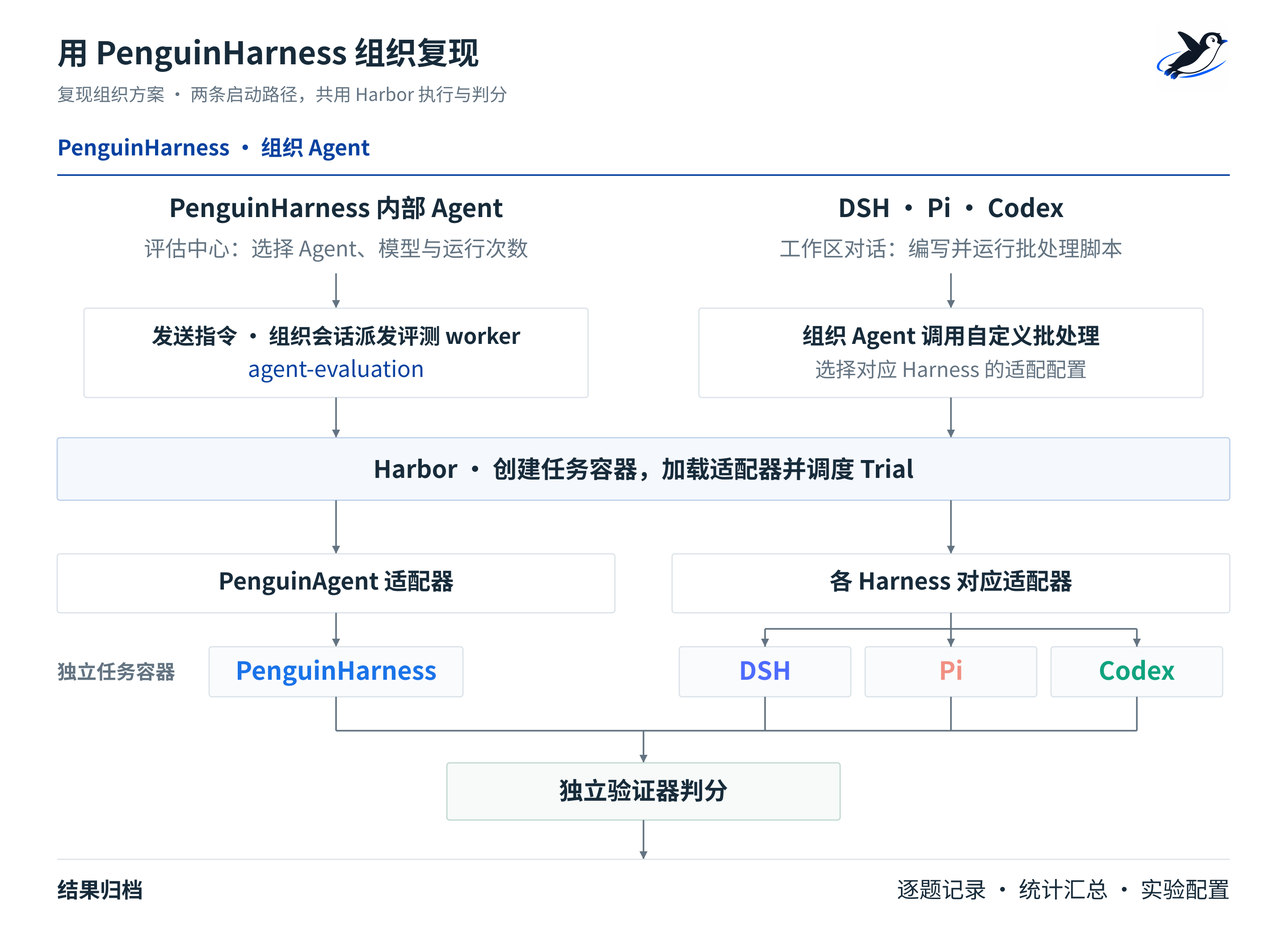
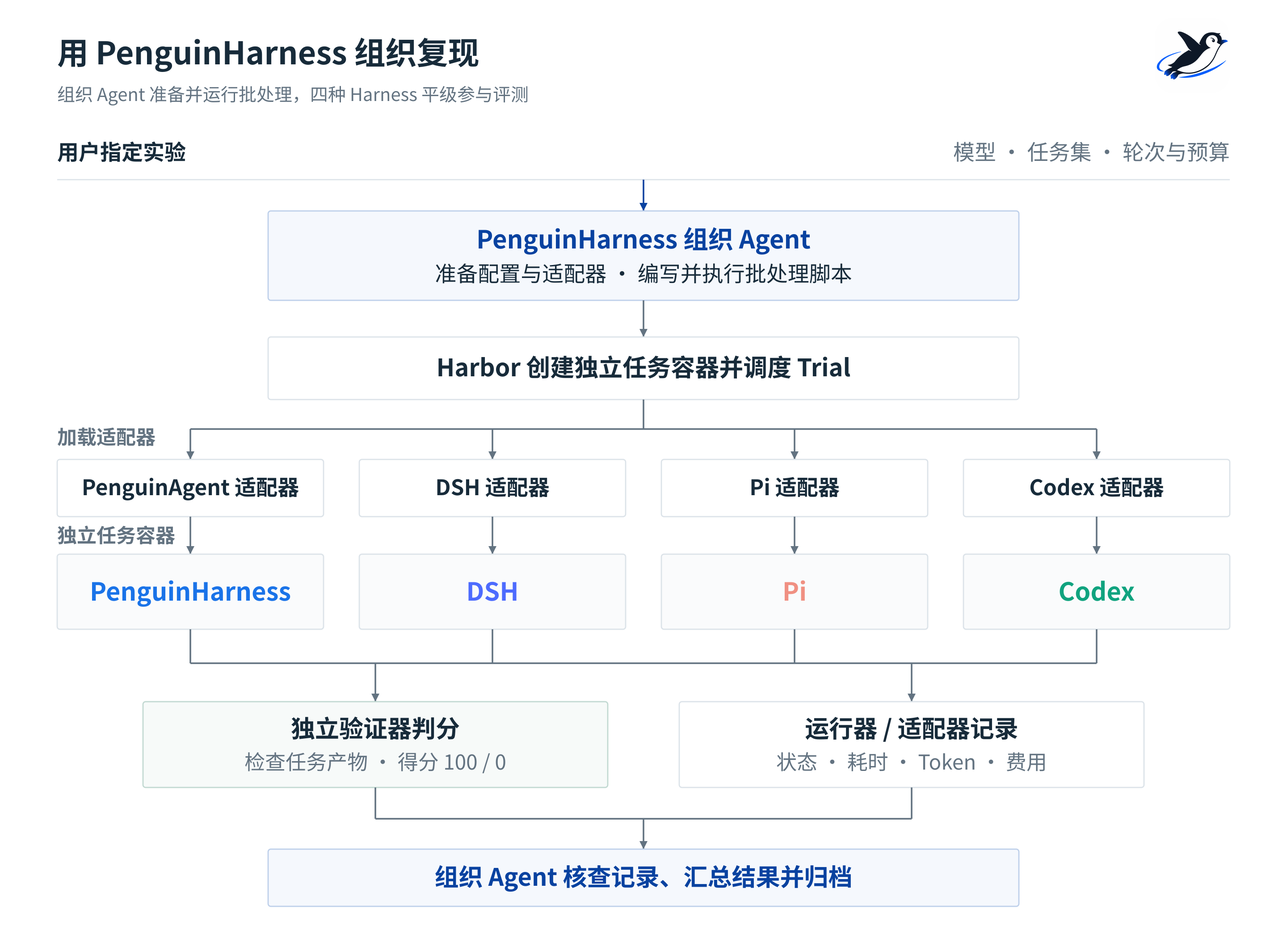
docs(landing): separate orchestration and evaluated harness roles
Feishu source: revision 301.

diff --git a/packages/landing/content/blog/harness-comparison.zh.md b/packages/landing/content/blog/harness-comparison.zh.md
@@ -5,13 +5,13 @@ category: practice
 excerpt: "固定底层模型与思考强度，在五个评测集、共 50 道题上对 PenguinHarness、DSH、Pi、Codex 四种 Harness 开展三轮对比实验，拆解任务通过率、多轮稳定性与资源开销差异，并说明如何通过 PenguinHarness 组织和复现这套评测。"
 ---
 
-同一个模型，放进不同的 Harness 里，执行任务的表现往往存在明显差距。在优化 Harness 或引入 RSI 算法改进 Agent 之前，需要先建立一条固定基线：当底层模型完全固定时，切换不同的 Harness，最终的任务通过率、多轮运行的稳定性和资源开销会差多少？
+同一个模型，放进不同的 Harness 里，执行任务时的表现往往存在明显差距。在优化 Harness 或引入 RSI 算法改进 Agent 之前，需要先建立一条固定基线：当底层模型完全固定时，切换不同的 Harness，最终的任务通过率、多轮运行的稳定性和资源开销会差多少？
 
-本文整理了 PenguinHarness、DSH、Pi、Codex 四种 Harness 在五个评测集、共 50 道题上的三轮测试对比结果，并说明模型配置、实验启动流程，以及如何通过 PenguinHarness 组织和复现这套评测。
+本文整理了 PenguinHarness、DSH、Pi、Codex 四种 Harness 在五个评测集、共 50 道题上的三轮测试对比结果，并讲明如何通过 PenguinHarness 创建组织 Agent，由它准备配置、编写并执行批处理脚本，通过 Harbor 与各自适配器平级调度四种被测 Harness，最后收集并汇总实验结果。
 
 ## 1. 实验设计与任务设定
 
-四组实验统一接入模型 DeepSeek-V4.1-Flash-1017，思考强度固定为 max，被测版本分别锁定为 PenguinHarness 0.2.17、DSH 0.2.1-rc.2、Pi 1.4.0 与 Codex 0.162.1，通过 Harbor 0.23.0 在独立 Docker 容器中各自将 50 道题完整测试 3 轮，合计完成 600 次作答：
+四组实验统一使用模型 DeepSeek-V4.1-Flash-1017，思考强度为 max，版本分别为 PenguinHarness 0.2.17、DSH 0.2.1-rc.2、Pi 1.4.0 与 Codex 0.162.1，通过 Harbor 0.23.0 在独立 Docker 容器中各自将 50 道题完整测试 3 轮，合计完成 600 次作答：
 
 <figure class="post-figure"><img class="w-full rounded-lg border border-gray-200 dark:border-gray-800" src="/blog-screenshots/harness-comparison/03-experiment-design.png" width="2880" height="1730" alt="图 1｜实验设计：四种 Harness 锁定版本号，在相同的模型配置下，对 A–E 五个子集共 50 道固定任务各测试三轮，合计完成 600 次作答。" /><figcaption>图 1｜实验设计：四种 Harness 锁定版本号，在相同的模型配置下，对 A–E 五个子集共 50 道固定任务各测试三轮，合计完成 600 次作答。</figcaption></figure>
 
@@ -27,9 +27,9 @@ excerpt: "固定底层模型与思考强度，在五个评测集、共 50 道题
 
 ## 2. 模型配置与实验启动流程
 
-用 PenguinHarness 组织和复现这套实验，需要先配好模型与思考强度，再按被测对象走对应的启动路径。如图 2 所示，评测 PenguinHarness 内部 Agent 时，从评估中心调用预置的 `agent-evaluation` 技能发起；评测 DSH、Pi、Codex 等外部 Harness 时，则在工作区对话中由组织 Agent 调用自定义批处理脚本。两条路径共用底层的 Harbor 容器调度与独立验证器判分。
+这套横评在组织层与被测层之间做了明确切分：宿主机上，用户在 PenguinHarness 中创建一个负责编排实验的**组织 Agent**；而在每个独立 Docker 任务容器内部，作为被测对象的 **PenguinHarness 与 DSH、Pi、Codex 完全平级**。如图 2 所示，组织 Agent 在工作区对话中准备配置、编写并执行批处理脚本，统一调用 Harbor 加载四种被测 Harness 各自的适配器；容器内作答结束后，由独立验证器判分，运行器与适配器记录结束状态和资源开销，最后由组织 Agent 收集并汇总为标准归档。
 
-<figure class="post-figure"><img class="w-full rounded-lg border border-gray-200 dark:border-gray-800" src="/blog-screenshots/harness-comparison/04-penguin-reproduction-flow.png" width="2880" height="2080" alt="图 2｜复现组织方案：上层由 PenguinHarness 的组织 Agent 发起；内部 Agent 走左侧评估中心与 agent-evaluation 技能路径，DSH、Pi、Codex 走右侧自定义批处理路径；底层共用 Harbor 容器调度、适配器加载、独立验证器判分与结果归档。" /><figcaption>图 2｜复现组织方案：上层由 PenguinHarness 的组织 Agent 发起；内部 Agent 走左侧评估中心与 agent-evaluation 技能路径，DSH、Pi、Codex 走右侧自定义批处理路径；底层共用 Harbor 容器调度、适配器加载、独立验证器判分与结果归档。</figcaption></figure>
+<figure class="post-figure"><img class="w-full rounded-lg border border-gray-200 dark:border-gray-800" src="/blog-screenshots/harness-comparison/04-penguin-reproduction-flow.png" width="2880" height="2110" alt="图 2｜复现组织方案：上层在 PenguinHarness 中创建组织 Agent，由它准备配置、编写并运行批处理脚本；中层通过 Harbor 与各自适配器在独立任务容器中平级调度 PenguinHarness、DSH、Pi、Codex 四种被测 Harness；下层由独立验证器判分，运行器与适配器记录结束状态和资源开销，最后汇总生成标准归档。" /><figcaption>图 2｜复现组织方案：上层在 PenguinHarness 中创建组织 Agent，由它准备配置、编写并运行批处理脚本；中层通过 Harbor 与各自适配器在独立任务容器中平级调度 PenguinHarness、DSH、Pi、Codex 四种被测 Harness；下层由独立验证器判分，运行器与适配器记录结束状态和资源开销，最后汇总生成标准归档。</figcaption></figure>
 
 **第一步：配置模型与思考强度**
 
@@ -43,35 +43,15 @@ penguin config model add \
   --set-default
 ```
 
-需要注意，**组织会话与被测 Agent 的思考强度是分开生效的**：在聊天输入框下方将思考强度切到 `Max`，只作用于当前负责编排实验的组织会话；通过 `agent-evaluation` 技能评测内部 Agent 时，被测 Agent 的 `thinking_level` 会从其自身的配置文件 `system_config.yaml` 中读取，因此实验前需先在被测 Agent 的设置中将思考强度设为 `max`。通过批处理脚本测试外部 Harness 时，则在启动参数中显式传入 `thinking=max`。
+需要注意，**宿主机上组织 Agent 的思考强度与容器内被测 Harness 的思考强度是分开生效的**：在 PenguinHarness 聊天输入框下方将思考强度切到 `Max`，只作用于当前负责编排实验的组织会话；而在容器内实际作答的四种被测 Harness，其思考强度统一由批处理脚本在启动参数中显式传入 `thinking=max`，确保四组被测对象在容器内均以 `max` 思考强度运行。
 
-**第二步：评测 PenguinHarness 内部 Agent——评估中心与 `agent-evaluation` 技能**
+**第二步：由组织 Agent 编写并执行批处理脚本，平级调度四种 Harness**
 
-新建的 PenguinHarness Project 已内置 Sec A 至 Sec E 五个评测集，默认智能体 `default_agent` 也已预装 `Default RSI Toolkit` 插件中的 `agent-evaluation` 技能。对应图 2 左侧分支，发起评测分为三步：
+在历史横评实验中，PenguinHarness、DSH、Pi、Codex 四组实验均通过 Harbor 0.23.0 与各自适配器在独立容器中按同一套流程跑完 A 至 E 五个子集的三轮测试，原始结果归档于仓库 `experiments/harness-comparison/` 目录。单组实验从启动到归档的执行链路如下：
 
-- **在评估中心选择参数**：进入左侧「评估中心」，点击目标评测集右上角的「使用」，在「评估」标签页设置四项参数——被测智能体选 `default_agent`，执行评估的智能体选装有 `agent-evaluation` 技能的 `default_agent`，评估会话模型选 `deepseek/DeepSeek-V4.1-Flash-1017`，运行次数 `runs` 填 `3`。
-- **预选技能并发送指令**：点击确认后，系统会自动新建对话、预选 `agent-evaluation` 技能并填入评估指令；也可以手动新建对话，勾选 `agent-evaluation` 技能后发送以下指令：
+> **组织 Agent 准备配置并启动批处理脚本 → `harbor run` 加载对应适配器 → 独立任务容器内运行被测 Harness → 独立验证器判分，运行器与适配器记录状态与开销 → 汇总生成 `meta_info.yaml`、`test/attempt-1..3.yaml` 与 `test/summary.yaml`**
 
-```markdown
-[use_skills]
-- agent-evaluation
-[/use_skills]
-请使用 `agent-evaluation` Skill，在这套已冻结的 Benchmark 上评估被测智能体。
-
-- test_agent_id：`default_agent`
-- benchmark_id：`penguinharness-benchmark-sec-e`
-- runs：`3`
-```
-
-- **主会话派发评测 Worker**：收到指令后，主会话先按 `agent-evaluation` 技能规范检出仓库快照、创建共享 Docker 网络并构建离线安装包，随后循环调度 `10 题 × 3 轮 = 30` 个评测单元，通过 `run_subagent` 在后台并发派发子会话 Worker，默认最多同时运行 4 个。每个 Worker 每次只接收**一个内部 `test_agent_id`、一道题目和一次运行编号**，打包被测 Agent 的 `agent_state` 并在独立 Docker 容器中调用 `harbor run` 完成作答与判分；30 个单元全部返回后，主会话汇总均分并写入该评测集的 `scoreboard.yaml`。
-
-**第三步：评测 DSH、Pi、Codex——工作区对话调用自定义批处理**
-
-`agent-evaluation` 技能面向 PenguinHarness 内部的 `test_agent_id`，不会在单条指令里直接驱动外部命令行工具。评测 DSH、Pi、Codex 时，需通过各自的 Harbor 适配器与任务配置接入，对应图 2 右侧分支：
-
-> **PenguinHarness 工作区对话启动批处理脚本 → `harbor run -c <任务配置> -y` → 容器内加载对应适配器运行被测 Harness → 独立验证器判分 → 归档逐题记录与统计汇总**
-
-当前评测仓库的 `agents/` 目录内置了 `penguin_agent:PenguinAgent` 适配器，并在 `experiments/harness-comparison/` 下归档了四组实验结果，但未包含 DSH、Pi、Codex 的外部适配器代码。下面以仓库内置的 `penguin_agent:PenguinAgent` 为例，演示如何在普通工作区对话中不依赖 `agent-evaluation` 技能，直接通过 Harbor 命令行跑通 PenguinHarness 的单题冒烟与整子集评测闭环：
+在公开复现仓库中，`agents/` 目录内置了可直接运行的 `penguin_agent:PenguinAgent` 适配器作为标准参考实现，未包含 DSH、Pi、Codex 的外部适配器源码。下面以内置的 `penguin_agent:PenguinAgent` 为例，展示组织 Agent 在工作区中准备离线运行包、执行 Sec E 单题冒烟验证，以及拉起整子集批量评测的具体命令：
 
 ```bash
 git clone https://github.com/Prism-Shadow/penguin-harness-benchmark.git
@@ -105,22 +85,22 @@ uvx --from harbor==0.23.0 harbor run \
   --job-name terminal-bench-attempt-1 -y
 ```
 
-上述命令用于跑通 PenguinHarness 路径；若要复现 DSH、Pi、Codex 三组实验，需要为三者分别提供符合 Harbor `InstalledAgent` 接口的适配器实现并传入 `-a`，再按第 1 至第 3 轮顺序跑完五个子集，每轮结束后生成标准格式的 `meta_info.yaml`、`test/attempt-1..3.yaml` 与 `test/summary.yaml`。
+上述命令展示了调度容器内被测 PenguinHarness 的完整闭环；复现 DSH、Pi、Codex 三组实验时，组织 Agent 只需将符合 Harbor `InstalledAgent` 接口的对应适配器传入 `-a`，并挂载各自的离线运行包，其余容器调度、时限控制、独立验证器判分与三轮归档流程完全相同。
 
 ## 3. 四组实验共同遵循的执行与判分规则
 
-无论是通过 `agent-evaluation` 技能派发评测 Worker，还是通过批处理脚本调用 Harbor，四种被测 Harness 在环境准备、网络隔离、容器内执行与异常重跑上均遵循同一套规则。在每个独立任务容器内部，被测的 PenguinHarness 与 DSH、Pi、Codex 处于完全对等的位置，统一由 Harbor 调度并交由独立验证器判分。
+宿主机上的组织 Agent 只负责外部任务编排与结果收集；一旦进入 Harbor 启动的独立任务容器，四种被测 Harness 在环境准备、网络隔离、容器内执行与异常重跑上均遵循同一套规则，处于完全对等的位置。
 
 **第一环节：准备离线运行包与隔离密钥**
 
-开跑前，先锁定 50 道题对应的 40 位仓库提交快照、被测 Harness 版本号与各子集运行上限。为避免每个容器启动时重复从公网下载运行环境，或污染题目容器原有的 Python 与 Node 工具链，宿主机预先将各被测运行环境打包为离线安装包，容器启动时直接挂载解压到独立目录。同时，适配器只从宿主机配置中提取当前被测模型的单条密钥，写入容器日志目录之外的临时私有路径，并在单题结束后立即擦除，确保密钥不会出现在命令行参数或归档日志中。
+开跑前，组织 Agent 先核对并锁定 50 道题对应的 40 位仓库提交快照、被测 Harness 版本号与各子集运行上限。为避免每个容器启动时重复从公网下载运行环境，或污染题目容器原有的 Python 与 Node 工具链，宿主机预先将各被测运行环境打包为离线安装包，容器启动时直接挂载解压到独立目录。同时，适配器只从宿主机配置中提取当前被测模型的单条密钥，写入容器日志目录之外的临时私有路径，并在单题结束后立即擦除，确保密钥不会出现在命令行参数或归档日志中。
 
 **第二环节：单题冒烟验证与批量并发控制**
 
 正式拉起三轮完整实验前，先以单并发跑通一道题，核实离线包解压、模型请求、产物落盘与验证器判分全链路正常，再推进五个子集的批量运行。批量运行期间执行两项环境控制：
 
 - **子集网络隔离**：Sec A、C、D、E 允许访问公网并复用 `penguin-bench` 共享桥接网络；而考察开源仓库缺陷修复的 Sec B 全程禁用公网，仅通过 `--allow-agent-host` 放行模型 API 主机，防止被测 Agent 搜索线上现成的修复 PR 或 Issue。
-- **并发度与 Docker 地址池管理**：Harbor 默认会为每个任务容器创建独立网络，而标准 Docker 守护进程默认仅提供 31 个子网地址池。使用 `agent-evaluation` 技能复现时默认最多并发运行 4 个子会话；在预先配置共享桥接网络或扩容地址池的批处理服务器环境中，历史实验曾以最高 10 并发运行以缩短墙钟耗时。
+- **并发度与 Docker 地址池管理**：Harbor 默认会为每个任务容器创建独立网络，而标准 Docker 守护进程默认仅提供 31 个子网地址池。单机复现时默认将并发度控制在 4 以内并复用共享桥接网络，以避免子网耗尽；在预先扩容地址池的批处理服务器环境中，历史实验曾以最高 10 并发运行以缩短整体耗时。
 
 **第三环节：单题容器内执行与独立判分**
 
@@ -134,7 +114,7 @@ uvx --from harbor==0.23.0 harbor run \
 
 **第四环节：筛查未启动异常并生成标准归档**
 
-每轮运行结束后，系统按 `tools/measure/reruns.py` 核查试次完整性，严格区分“环境未就绪”与“作答失败”：只有当容器因服务启动失败、配置异常而从未发出任何模型请求，或因 Docker 子网地址池耗尽未能分配容器网络时，才判定为未实质启动并降低并发补跑；一旦 Agent 已发出模型请求开始答题，无论中途工具报错还是超时停止，一律保留原始结果；若因验证器自身故障未能产出分值，则作为无效试次单独排查，不直接记为 0 分。
+每轮运行结束后，按 `tools/measure/reruns.py` 核查试次完整性，严格区分“环境未就绪”与“作答失败”：只有当容器因服务启动失败、配置异常而从未发出任何模型请求，或因 Docker 子网地址池耗尽未能分配容器网络时，才判定为未实质启动并降低并发补跑；一旦 Agent 已发出模型请求开始答题，无论中途工具报错还是超时停止，一律保留原始结果；若因验证器自身故障未能产出分值，则作为无效试次单独排查，不直接记为 0 分。
 
 ## 4. 评分与统计方法
 
@@ -157,7 +137,7 @@ uvx --from harbor==0.23.0 harbor run \
 将 A 至 E 五个子集的三轮平均开销相加，用来衡量跑完完整一轮 50 道题的平均资源投入：
 
 - **API 费用**：按统一目录单价计算的五个子集单轮平均费用之和；由于各子集归档费用已做四舍五入，文中统一记为约数。
-- **累计 Agent 运行时间**：50 道题在各自容器内运行耗时的直接累加，反映单轮总计算时长而非并行执行时的墙钟等待时间。
+- **累计 Agent 运行时间**：50 道题在各自容器内运行耗时的直接累加，代表单轮 50 题在容器内的总执行时长。
 - **三类 Token 用量**：多轮工具调用中，终端输出与历史消息会作为后续轮次的输入重复发送，原始输入总量中已包含缓存读取部分。为避免重复累加，文中按图 10 口径将 Token 拆分为**非缓存输入**、**缓存读取**和**输出**三项；其中输出仅包含模型自身生成的思考内容、回复文本与工具调用参数，不包含工具返回结果。
 
 ## 5. 实测结果与数据洞察
@@ -174,13 +154,13 @@ uvx --from harbor==0.23.0 harbor run \
 
 下面结合五个子集的得分分布、逐题通过频次与资源开销，逐项展开四点具体发现：
 
-**第一，不同题型的得分分化显著，四组实验同时呈现跨 Harness 的任务覆盖差异与单 Harness 内部的重复执行差异。**
+**第一，不同题型的得分分化显著，各组单轮均分同时受限于单组解出题目范围与跨轮重复执行波动。**
 
 <figure class="post-figure"><img class="w-full rounded-lg border border-gray-200 dark:border-gray-800" src="/blog-screenshots/harness-comparison/02-subset-bars.png" width="2880" height="3260" alt="图 6｜五个子集的得分对比：A–E 五个子集各 10 题的三轮均分与样本标准差，所有面板统一采用 0 至 100 分刻度，黑色端帽表示正负 1 个样本标准差。误差线在 0–100 边界处截断。" /><figcaption>图 6｜五个子集的得分对比：A–E 五个子集各 10 题的三轮均分与样本标准差，所有面板统一采用 0 至 100 分刻度，黑色端帽表示正负 1 个样本标准差。误差线在 0–100 边界处截断。</figcaption></figure>
 
 如图 6 所示，没有单一 Harness 在全部五个子集上同时占优。在 Sec A 数据分析上，PenguinHarness 以 70.00 ± 10.00 与 DSH 的 70.00 ± 0.00 并列第一；在断网隔离的 Sec B 软件工程上，PenguinHarness 以 70.00 ± 10.00 取得单子集最高分，三轮得分为 60、70、80，DSH、Pi、Codex 分别为 63.33 ± 15.28、60.00 ± 10.00 与 53.33 ± 5.77；在 Sec C 自动化工作流上，DSH 以 36.67 ± 5.77 居首，PenguinHarness 为 30.00 ± 10.00；在 Sec E 终端任务上，Pi 取得最高均分 23.33 ± 15.28，高于 PenguinHarness 的 20.00 ± 0.00 与 DSH 的 20.00 ± 10.00；而 Sec D 科学计算则是所有被测 Harness 的共同短板，均分都在 0.00 到 10.00 之间。
 
-把四种 Harness 的三轮共 600 次作答取并集，每道题共经历了 12 次尝试：50 道题中有 19 道题在 12 次尝试中均未通过，其中 Sec D 科学计算占 7 题、Sec C 与 Sec E 各占 5 题、Sec A 占 2 题；其余 31 道题至少被某一种 Harness 解出过，当中又有 17 道题四种 Harness 全部能够解出，Sec B 的 10 道软件工程题更是全部被打通。需要注意，19 道题在 12 次尝试中未通过，只说明在当前模型 DeepSeek-V4.1-Flash-1017、现有提示词与通用工具配置下尚未解出，不能直接断言它们超出了模型本身的能力上限；同理，31 道已解出题对应的 62 分是跨四种 Harness 的并集覆盖分，它与单轮均分 30.00–38.67 分之间的差距同时包含两部分：一是**不同 Harness 各自擅长题目不同带来的覆盖差异**——单一 Harness 在三轮内至少解出一次的题目为 22–25 道，对应单组观测覆盖分 44–50 分，与跨组并集的 62 分之间存在 12–18 分的互补空间；二是**同一 Harness 在自身已解出题目上的重复执行损耗**——例如 DSH 与 PenguinHarness 各自在三轮内解出过 25 道题、对应 50 分的单组观测覆盖分，但三轮总体均分分别为 38.67 分与 38.00 分，中间 11.33 分与 12.00 分的落差，才直接来自同一 Harness 跨轮次重复执行时的稳定性损耗。
+汇总全部 600 次作答，每道题在四种 Harness 下合计经历了 12 次尝试。本次实验中，共有 31 道题至少被某一种 Harness 解出过一次，其中 17 道题四种 Harness 全部解出过，Sec B 的 10 道软件工程题全部有人通过；其余 19 道题在本次 12 次尝试中均未通过，分布为 Sec D 7 题、Sec C 5 题、Sec E 5 题、Sec A 2 题。将跨组并集的 31 题与各组实际表现对照，可以看到两个层面的差异：一是**不同 Harness 之间的解出题目互补**——单看任意一种 Harness，三轮内至少通过一次的题目为 22–25 道，尚未覆盖全部 31 道已解出题；二是**同一 Harness 在已解出题目上的跨轮波动**——例如 DSH 与 PenguinHarness 在三轮内都解出过 25 道不同题目，若这 25 道题每轮都能稳定复现，单轮得分可达 50 分，而实际三轮总体均分分别为 38.67 分与 38.00 分，中间 11.33 分与 12.00 分的落差来自部分已解出题目未能每轮稳定通过。
 
 **第二，各组“至少解出一次”的题目数高度接近，真正拉开总分差距的是摇摆题在“通过两次”与“仅过一次”之间的分布差异。**
 
@@ -219,12 +199,12 @@ uvx --from harbor==0.23.0 harbor run \
 
 **后续工作：这套基线用来检查哪些改动？**
 
-这 50 道题已完成逐题拆解，后续将作为检验 Harness 工程改动的固定回归基线，重点检查三方面变化：
+通过 PenguinHarness 组织 Agent 跑通并归档的这 50 道题横评数据，已完成逐题拆解，后续将作为检验 Harness 工程改动的固定回归基线，在相同模型与 Harbor 判分规则下重点检查三方面变化：
 
 - **高频摇摆题的收敛情况**：对照 Sec A、Sec B、Sec C 的执行轨迹，检查提示词与自测流程改动后，“2 / 3 次通过”的高频摇摆题能否稳定收敛为三轮全过，同时 Sec B 较高的输出 Token 消耗能否下降。
-- **逐题通过矩阵的退化检查**：每次版本迭代直接比对三轮逐题得分矩阵，防止轮次间不同题目的一增一减掩盖真实退化。
+- **逐题通过矩阵的退化检查**：每次版本迭代由组织 Agent 跑完三轮后，直接比对三轮逐题得分矩阵，防止轮次间不同题目的一增一减掩盖真实退化。
 - **长耗时子集的执行效率**：跟踪 Sec D 的单题耗时分布与终止状态，验证超时提醒或早停机制能否减少无效长耗时尝试。
 
 至于需要避免公开题目过拟合的 RSI 实验，则交由仓库中划分了独立训练集与留出测试集的 GDPevo 基准开展。
 
-*实验数据快照：本文全部数据对应 [Prism-Shadow/penguin-harness-benchmark](https://github.com/Prism-Shadow/penguin-harness-benchmark/tree/6ad65ea054fe8035c1c48724dbb5626d699f6cb2) 仓库快照 6ad65ea054fe8035c1c48724dbb5626d699f6cb2。相关文档：[横评归档目录](https://github.com/Prism-Shadow/penguin-harness-benchmark/tree/6ad65ea054fe8035c1c48724dbb5626d699f6cb2/experiments/harness-comparison) · [仓库运行说明 README.zh.md](https://github.com/Prism-Shadow/penguin-harness-benchmark/blob/6ad65ea054fe8035c1c48724dbb5626d699f6cb2/README.zh.md) · [50 题筛选说明 SELECTION.zh.md](https://github.com/Prism-Shadow/penguin-harness-benchmark/blob/6ad65ea054fe8035c1c48724dbb5626d699f6cb2/SELECTION.zh.md) · [评估集导入包说明 packages/README.zh.md](https://github.com/Prism-Shadow/penguin-harness-benchmark/blob/6ad65ea054fe8035c1c48724dbb5626d699f6cb2/packages/README.zh.md) · [PenguinAgent 适配器说明](https://github.com/Prism-Shadow/penguin-harness-benchmark/blob/6ad65ea054fe8035c1c48724dbb5626d699f6cb2/agents/README.md) · [评估数据与提交流程规范](https://club.penguin.ooo/zh/workflow/evaluation/)*
+*实验数据快照：本文全部数据对应 [Prism-Shadow/penguin-harness-benchmark](https://github.com/Prism-Shadow/penguin-harness-benchmark/tree/6ad65ea054fe8035c1c48724dbb5626d699f6cb2) 仓库快照 6ad65ea054fe8035c1c48724dbb5626d699f6cb2。相关文档：[横评归档目录](https://github.com/Prism-Shadow/penguin-harness-benchmark/tree/6ad65ea054fe8035c1c48724dbb5626d699f6cb2/experiments/harness-comparison) · [仓库运行说明 README.zh.md](https://github.com/Prism-Shadow/penguin-harness-benchmark/blob/6ad65ea054fe8035c1c48724dbb5626d699f6cb2/README.zh.md) · [50 题筛选说明 SELECTION.zh.md](https://github.com/Prism-Shadow/penguin-harness-benchmark/blob/6ad65ea054fe8035c1c48724dbb5626d699f6cb2/SELECTION.zh.md) · [评测集数据说明 data/README.md](https://github.com/Prism-Shadow/penguin-harness-benchmark/blob/6ad65ea054fe8035c1c48724dbb5626d699f6cb2/data/README.md) · [PenguinAgent 适配器说明](https://github.com/Prism-Shadow/penguin-harness-benchmark/blob/6ad65ea054fe8035c1c48724dbb5626d699f6cb2/agents/README.md) · [评估数据与提交流程规范](https://club.penguin.ooo/zh/workflow/evaluation/)*

diff --git a/changelog/unreleased/2026-11-05-harness-comparison-blog.md b/changelog/unreleased/2026-11-05-harness-comparison-blog.md
@@ -14,3 +14,4 @@ Added a Chinese experiment blog post and its English draft comparing PenguinHarn
 - Added ten figures covering experiment design, reproduction, execution, statistics, scores, task stability and resource use.
 - Added the article to the practice-post index and synchronized the figures with the reviewed source assets.
 - Updated the Chinese article from Feishu revision 279 and corrected the Sec E command paths and task link against the pinned benchmark snapshot.
+- Synchronized the Chinese manuscript, captions, experiment-design figure and orchestration figure from Feishu revision 301 while retaining the selected article title.

diff --git a/changelog/unreleased/2026-11-05-harness-comparison-blog.zh.md b/changelog/unreleased/2026-11-05-harness-comparison-blog.zh.md
@@ -14,3 +14,4 @@
 - 添加了实验设计、复现组织、执行流程、统计方法、得分、逐题稳定性和资源开销共十张配图。
 - 将文章加入实践博客索引，并同步了已审核的配图。
 - 根据飞书 revision 279 更新了中文稿，并按固定评测快照修正了 Sec E 命令路径与任务链接。
+- 根据飞书 revision 301 同步了中文稿、图注及实验设计与组织流程配图，保留了选定的文章标题。
